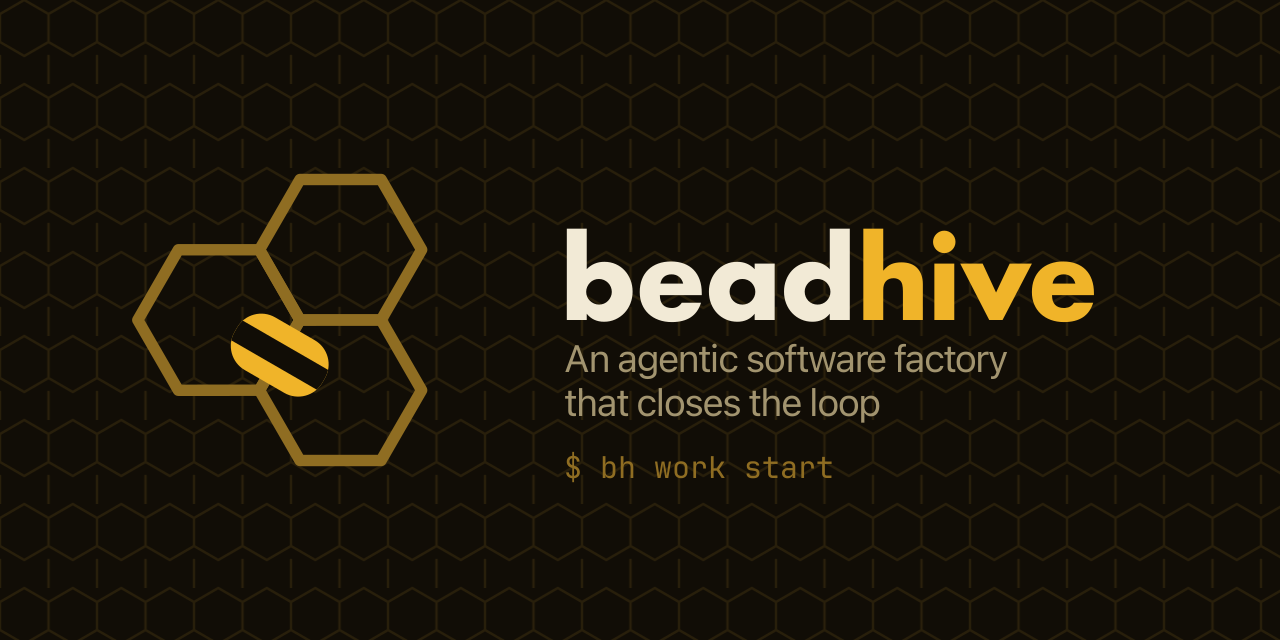
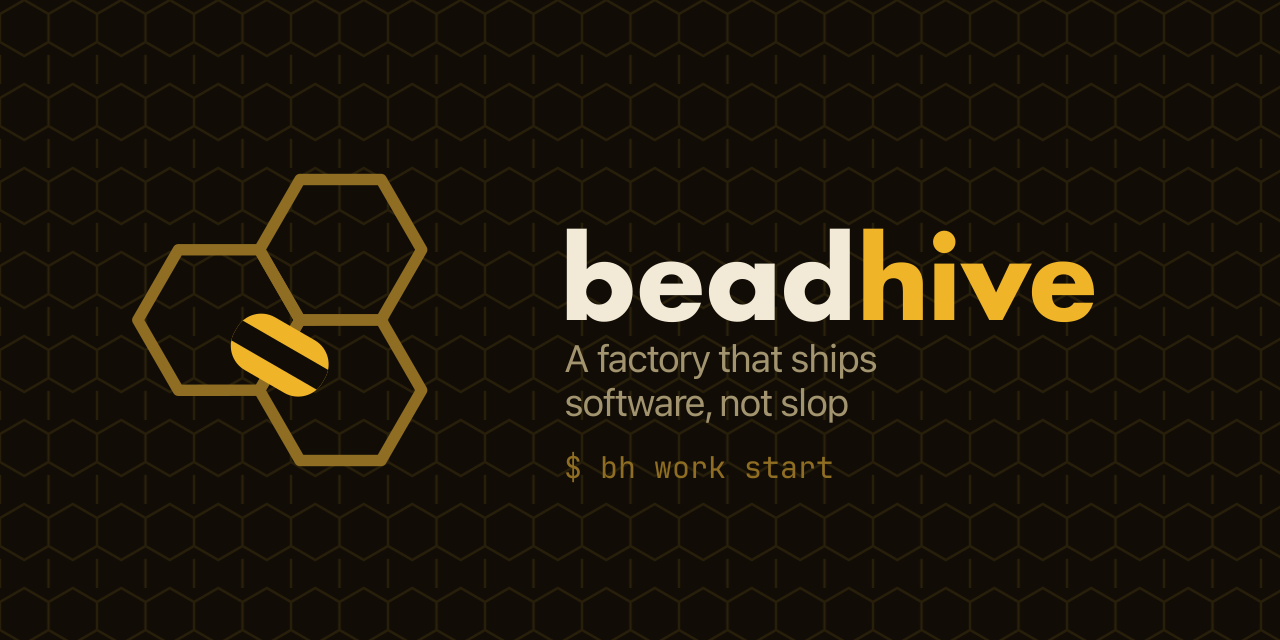
feat(site): sync OG card to noslop hero (bh-infra-2sk)
Card now carries the same sentence as the h1 per the heroes.ts contract.
Banners diverge on purpose — imperative bannerTagline, see
infra/docs/design/hero-copy-brainstorm.md surface split.

Changed region(s): [[0.4375, 0.5312, 0.7812, 0.6562]]

diff --git a/src/copy/heroes.ts b/src/copy/heroes.ts
@@ -11,9 +11,11 @@
 // infra/brand/tokens.json — not a paraphrase of it. Editing one without the
 // other puts the page and every shared preview into disagreement, and the card
 // is a rendered PNG, so it needs `node brand/render.mjs` rather than a
-// redeploy. The OG card still carries the OLD hero until this comparison
-// settles — sync tokens.json to the winner BEFORE publish (bh-infra-2sk
-// acceptance).
+// redeploy. The card is synced to the `noslop` variant; if a DIFFERENT variant
+// wins this comparison, re-sync tokens.json + public/og-default.png before
+// publish (bh-infra-2sk acceptance). Banners deliberately differ: they carry
+// the imperative `bannerTagline` ("Ship software, not slop.") per the surface
+// split in infra/docs/design/hero-copy-brainstorm.md.
 //
 // Register rule (gtm-dual-icp.md): the front page is ICP-1 legible — indict
 // the situation ("code outruns the process"), never the reader. No cowboy, no
